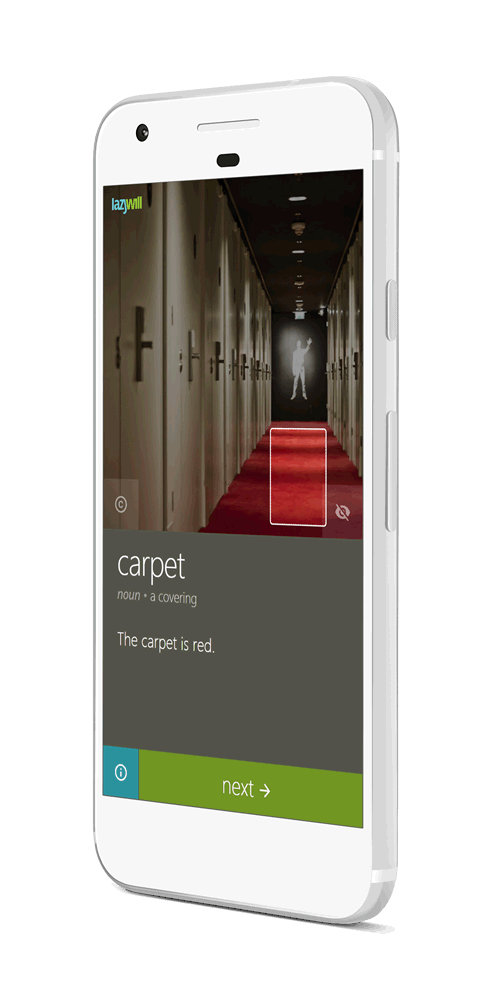
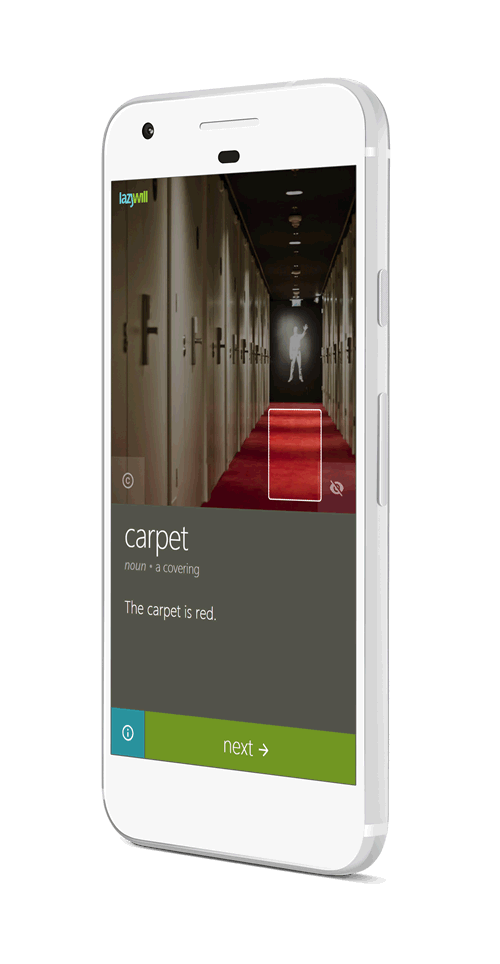
Mockup interactions - step 2

Changed region(s): [[0.18, 0.0622, 0.81, 0.9336]]

diff --git a/src/components/Billboard/Billboard.jsx b/src/components/Billboard/Billboard.jsx
@@ -86,26 +86,32 @@ const styles = theme => ({
     }
   },
   mockup: {
+    //background: "blue",
     textAlign: "center",
+    position: "relative",
     "& img": {
       maxWidth: "100%",
-      display: "none"
+      transition: "all .5s"
     },
-    "& img:first-child": {
-      display: "block"
+    "& img:last-child": {
+      position: "absolute",
+      top: "50%",
+      left: "50%",
+      transform: "translate(-50%, -50%)"
     },
     "@media (min-width: 1024px)": {
-      width: "40%",
-      paddingRight: "5%",
-      display: "flex",
-      alignItems: "center",
-      justifyContent: "center",
+      width: "35%",
       "& img": {
         maxHeight: "calc(100vh - 50px)",
-        width: "auto"
+        width: "auto",
+        position: "absolute",
+        top: "50%",
+        left: "50%",
+        transform: "translate(-50%, -50%)"
       }
     }
   },
+
   actionForDesktop: {
     margin: "2em 0 0 0",
     display: "none",
@@ -115,6 +121,7 @@ const styles = theme => ({
   },
   actionForMobile: {
     padding: "0 0 3em",
+    textAlign: "center",
     "@media (min-width: 1024px)": {
       display: "none"
     },
@@ -135,6 +142,9 @@ class Billboard extends React.Component {
   }
 
   handleMouseMove(e) {
+    if (e.type === "mouseleave" && this.state.mockupInPerspective) {
+      return;
+    }
     this.setState(prevState => ({
       mockupInPerspective: !prevState.mockupInPerspective
     }));
@@ -165,20 +175,21 @@ class Billboard extends React.Component {
         </section>
         <section className={classes.mockup}>
           <img
-            style={{ display: mockupInPerspective ? "inline-block" : "none" }}
+            style={{ opacity: mockupInPerspective ? 1 : 0 }}
             src="/img/phone-perspective.png"
             alt="Lazywill on a smartphone in perspective"
-            onClick={this.handleMouseMove}
           />
           <img
-            style={{ display: mockupInPerspective ? "none" : "inline-block" }}
+            style={{ opacity: mockupInPerspective ? 0 : 1 }}
             src="/img/phone.png"
             alt="Lazywill on a smartphone"
+            onMouseEnter={this.handleMouseMove}
+            onMouseLeave={this.handleMouseMove}
             onClick={this.handleMouseMove}
           />
-          <div className={classes.actionForMobile}>
-            <DemoLink />
-          </div>
+        </section>
+        <section className={classes.actionForMobile}>
+          <DemoLink />
         </section>
       </article>
     );

diff --git a/src/components/Billboard/DemoLink.jsx b/src/components/Billboard/DemoLink.jsx
@@ -9,7 +9,7 @@ import Button from "material-ui/Button";
 const styles = theme => ({
   root: {
     display: "block",
-    borderRadius: 0,
+    borderRadius: "2px",
     background: theme.main.green,
     border: 0,
     boxShadow: "none",
